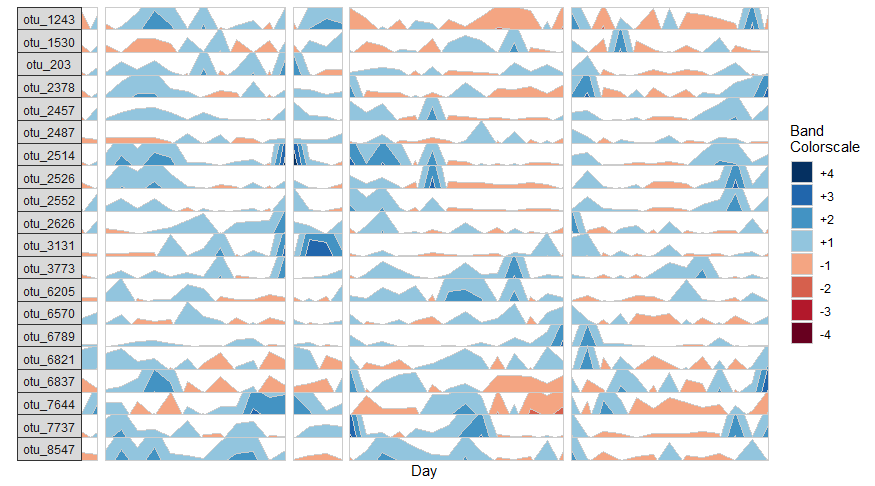
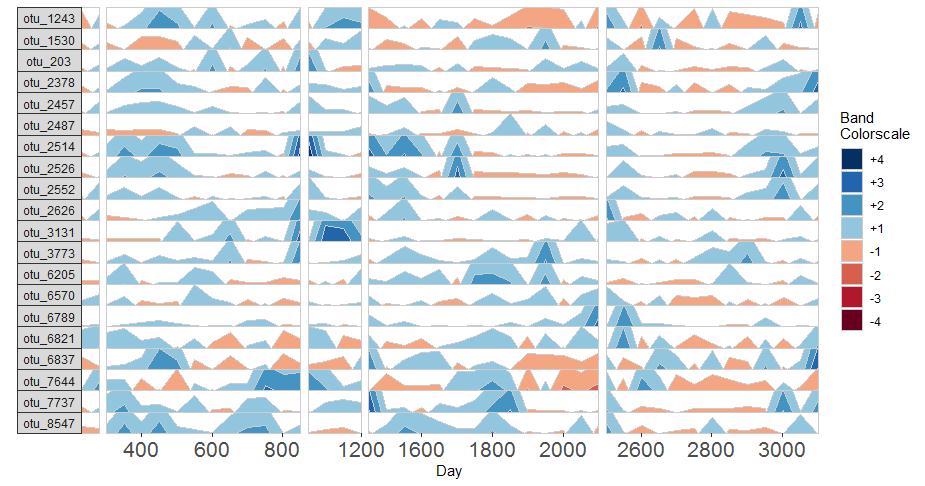
Update maxGap images to add axis ticks

diff --git a/index.md b/index.md
@@ -435,7 +435,10 @@ If many breaks in the time axis are created, this could result in facets with ve
 ## Create a plot from subject 2
 paramList <- prepanel(otusample, metadatasample, subj = "subject_2", regularInterval = 50, maxGap = 100)
 
-horizonplot(paramList)
+# Append custom set of axis ticks to avoid overlapping labels
+horizonplot(paramList) + 
+	ggplot2::scale_x_continuous(expand = c(0,0), 
+	breaks = seq(from = 0, by = 200, to = 3000))
 ```
 
 ![](assets/pics/plot_max_gap2.png)
@@ -444,7 +447,9 @@ horizonplot(paramList)
 ## Remove facets with <5 samples
 paramList <- prepanel(otusample, metadatasample, subj = "subject_2", regularInterval = 50, maxGap = 100, minSamplesPerFacet = 5)
 
-horizonplot(paramList)
+horizonplot(paramList) + 
+	ggplot2::scale_x_continuous(expand = c(0,0), 
+	breaks = seq(from = 0, by = 200, to = 3000))
 ```
 
 ![](assets/pics/plot_min_samples.png)
